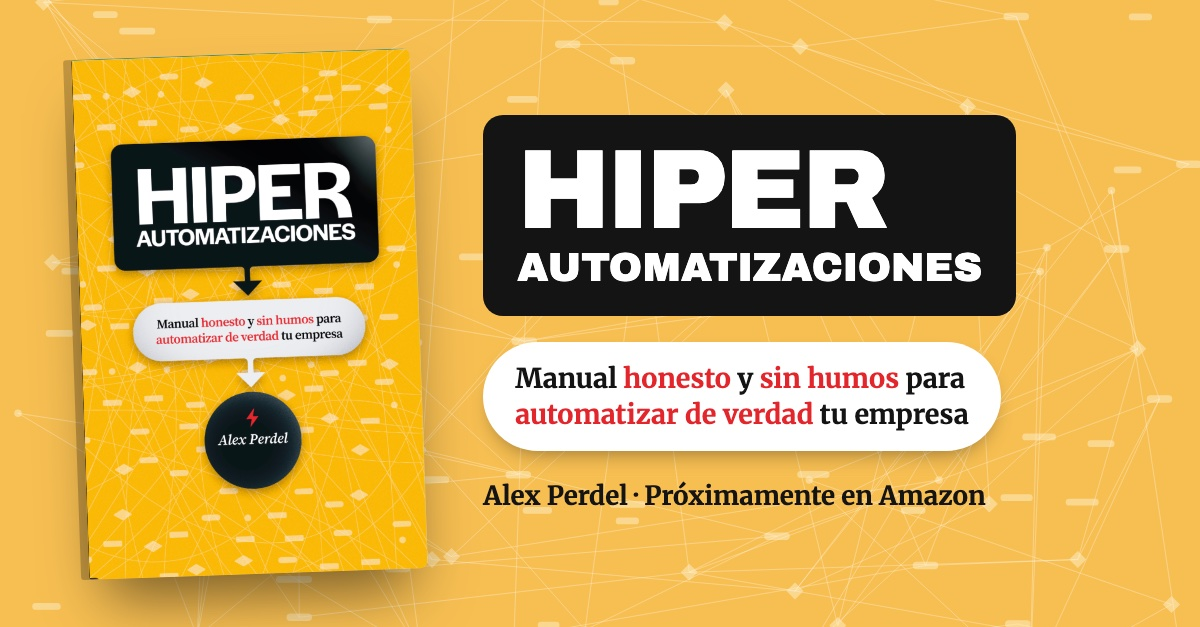
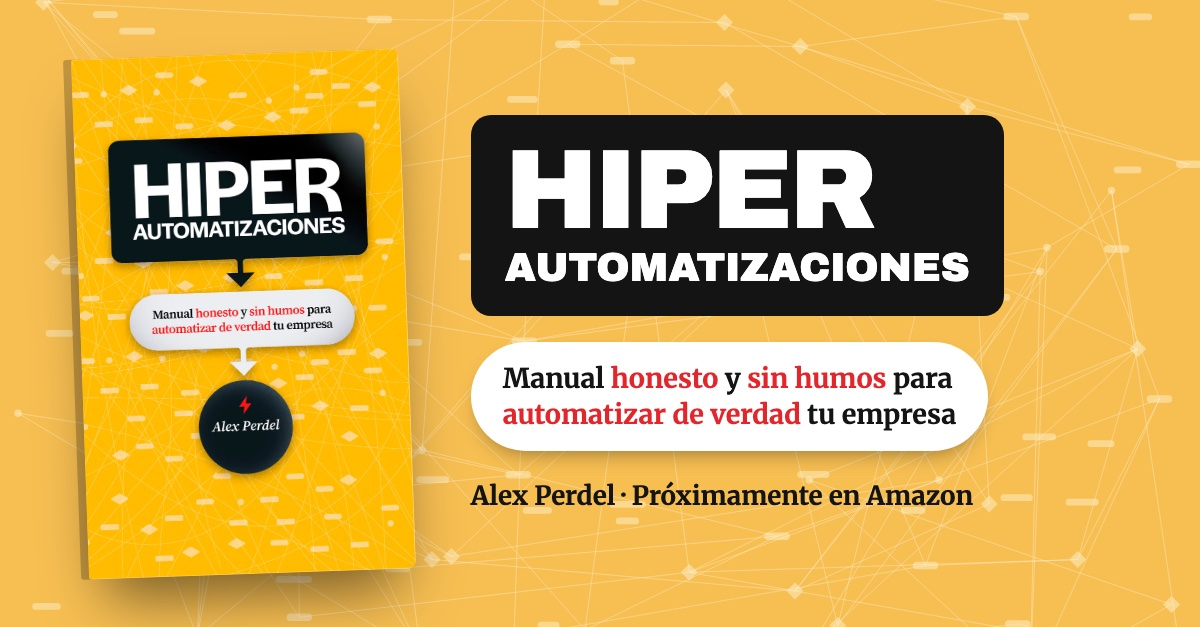
Llega la cubierta de Rafa: portada real, libros apilados en el hero y reel montado al compás de la música
- Portada recortada de la cubierta plana de Rafa, en JPG de 800 px (el PNG
  pesaba varios MB). Todas las referencias, el sitemap, el JSON-LD y los 301
  de la demo pasan a .jpg.
- El hero de la landing usa los libros apilados (PNG transparente de Rafa
  convertido a WebP, 150 KB). Mockup de la mano guardado para cuando haga falta.
- Tarjeta de redes regenerada con la portada buena.
- Reel: arranca en el puente suave de la pista con los libros flotando y el
  título golpea en el drop (4,6 s); cada escena cae en un tiempo fuerte a
  130,4 BPM. render.js admite --desde para elegir el punto de la pista.

Changed region(s): [[0.0617, 0.0606, 0.8633, 0.9394], [0.4008, 0.4848, 0.4317, 0.5152]]

diff --git a/tools/reel-libro/reel.html b/tools/reel-libro/reel.html
@@ -77,12 +77,15 @@
           box-shadow: 0 30px 60px -26px rgba(0,0,0,.6); }
   #rayo svg { width: 46px; height: 58px; }
   #rayo .serif { font-style: italic; font-weight: 900; font-size: 38px; margin-top: 10px; }
+  #c-libros { display: block; width: 1040px; height: 780px; margin: -150px auto -170px; position: relative; left: 50%; transform-origin: 50% 60%; filter: drop-shadow(0 30px 40px rgba(0,0,0,.22)); }
   #cierre .caja { margin-top: 56px; padding: 40px 30px 46px; }
   #cierre .caja.palo { font-size: 96px; letter-spacing: -2px; }
   #cierre .pildora { margin: 34px auto 0; width: 900px; padding: 28px 40px; font-size: 46px; }
   #url { margin-top: 40px; font-family: 'Archivo'; font-weight: 900; font-size: 44px; color: var(--tinta); }
 
   .w { display: inline-block; }
+  #i-libros { display: block; width: 1120px; height: 840px; filter: drop-shadow(0 34px 44px rgba(0,0,0,.22)); }
+  #flash { position: absolute; inset: 0; background: #fff; opacity: 0; pointer-events: none; }
   #progreso { position: absolute; left: 0; bottom: 0; height: 12px; background: var(--tinta); }
 </style>
 </head>
@@ -92,6 +95,7 @@
   <div id="velo"></div>
 
   <div id="escenario">
+    <div class="nodo" id="n-intro"><img id="i-libros" src="../../assets/img/libro/mockup-libros-apilados.webp" alt=""></div>
     <div class="nodo" id="n-titulo"><div id="titulo" class="caja palo"><span class="g" id="t-g">Hiper</span><span class="p" id="t-p">automatizaciones</span></div></div>
     <div class="flecha" id="f1"><i></i><b></b></div>
     <div class="nodo" id="n-sub"><div id="subtitulo" class="pildora serif">Manual <span class="rojo">honesto</span> y <span class="rojo">sin humos</span><br>para <span class="rojo">automatizar de verdad</span> tu empresa</div></div>
@@ -113,18 +117,22 @@
 
     <div class="flecha" id="f6"><i></i><b></b></div>
     <div class="nodo" id="n-cierre"><div id="cierre">
-      <div id="rayo"><svg viewBox="0 0 32 32"><path d="M18 2L6 18H14L12 30L24 14H16L18 2Z" fill="#E3262B"/></svg><span class="serif">Alex Perdel</span></div>
+      <img id="c-libros" src="../../assets/img/libro/mockup-libros-apilados.webp" alt="">
       <div class="caja palo" id="c-caja"><span class="w">Sale a finales</span><br><span class="w">de 2026</span></div>
       <div class="pildora serif" id="c-pild">Apúntate y te aviso el día que salga</div>
       <p id="url">alexperdel.com/hiperautomatizaciones</p>
     </div></div>
   </div>
 
+  <div id="flash"></div>
   <div id="progreso"></div>
 </div>
 
 <script>
-const DUR = 28;
+// Montado sobre «sports rock» a 130,4 BPM: un pulso = 0,46 s, un compás = 1,84 s.
+// El vídeo arranca en el puente suave de la pista (63,39 s) y el drop (67,99 s)
+// cae en el segundo 4,6 del vídeo. render.js: --musica pista.mp3 --desde 63.39
+const DUR = 29.44;
 window.DUR = DUR;
 const H = +(new URLSearchParams(location.search).get('h') || 1350);
 const W = 1080;
@@ -141,9 +149,9 @@ const lerp = (a, b, x) => a + (b - a) * x;
 
 // ---------- escenario: posiciones (centro vertical de cada nodo) ----------
 const $ = id => document.getElementById(id);
-const Y = { titulo: 0, sub: 360, r1: 1120, r2: 2000, r3: 2880, libro: 3780, cierre: 4700 };
+const Y = { intro: -1180, titulo: 0, sub: 360, r1: 1120, r2: 2000, r3: 2880, libro: 3780, cierre: 4700 };
 const sitio = (id, y) => { const n = $(id); n.style.top = y + 'px'; n.dataset.y = y; };
-sitio('n-titulo', Y.titulo); sitio('n-sub', Y.sub); sitio('n-r1', Y.r1); sitio('n-r2', Y.r2);
+sitio('n-intro', Y.intro); sitio('n-titulo', Y.titulo); sitio('n-sub', Y.sub); sitio('n-r1', Y.r1); sitio('n-r2', Y.r2);
 sitio('n-r3', Y.r3); sitio('n-libro', Y.libro); sitio('n-cierre', Y.cierre);
 // Las flechas unen el borde de abajo de un nodo con el de arriba del siguiente
 const borde = (id, lado) => { const n = $(id); const h = n.offsetHeight; return +n.dataset.y + (lado === 'abajo' ? h / 2 : -h / 2); };
@@ -186,31 +194,33 @@ const listo = fetch('../../assets/img/libro/trama-flujos.svg').then(r => r.text(
   });
 });
 
-// ---------- guion: cuándo llega la cámara a cada nodo ----------
-// Versión rápida (28 s): cambios de plano de 0,45 s con rebote y un zoom de
-// impacto al llegar. Todo cuelga de T: moviendo un número se mueve la escena.
-const T = { titulo: .3, sub: 2.6, r1: 5.4, r2: 8.9, r3: 12.4, libro: 15.9, cierre: 21.2 };
+// ---------- guion al compás ----------
+const PULSO = 0.46, COMPAS = 1.84, D = 4.6;          // D = el drop
+const T = { titulo: D, sub: D + COMPAS, r1: D + 2 * COMPAS, r2: D + 4 * COMPAS, r3: D + 6 * COMPAS,
+            libro: D + 8 * COMPAS, cierre: D + 10 * COMPAS };
+// [cuándo empieza a moverse, a dónde mira, cuánto tarda]: llega justo en el tiempo fuerte
 const PLANOS = [
-  [0, (Y.titulo + Y.sub) / 2 - 40],
-  [T.r1 - .45, Y.r1], [T.r2 - .45, Y.r2], [T.r3 - .45, Y.r3], [T.libro - .45, Y.libro], [T.cierre - .45, Y.cierre],
+  [0, Y.intro],
+  [D - .16, (Y.titulo + Y.sub) / 2 - 40, .16],          // corte seco en el drop
+  [T.r1 - .42, Y.r1, .42], [T.r2 - .42, Y.r2, .42], [T.r3 - .42, Y.r3, .42],
+  [T.libro - .42, Y.libro, .42], [T.cierre - .42, Y.cierre, .42],
 ];
-const MOVER = .45;
 const rebote = x => { const c = 1.25; return 1 + (c + 1) * Math.pow(x - 1, 3) + c * Math.pow(x - 1, 2); };
 function camara(t) {
   let y = PLANOS[0][1];
-  for (let i = 1; i < PLANOS.length; i++) y = lerp(y, PLANOS[i][1], rebote(prog(t, PLANOS[i][0], MOVER)));
+  for (let i = 1; i < PLANOS.length; i++) y = lerp(y, PLANOS[i][1], (i === 1 ? easeOut : rebote)(prog(t, PLANOS[i][0], PLANOS[i][2])));
   return y;
 }
-// Zoom de impacto y sacudida corta al aterrizar en cada plano
+// Zoom lento durante el puente, zoom de impacto y sacudida en cada golpe
 function impacto(t) {
-  let z = 0, sx = 0, sy = 0;
-  for (const [ta] of PLANOS.slice(1)) {
-    const x = prog(t, ta + MOVER * .8, .35);
-    if (x > 0 && x < 1) { z += .07 * (1 - easeOut(x)); }
+  let z = t < D ? .06 * easeInOut(prog(t, .3, D - .3)) : 0, sx = 0, sy = 0;
+  for (const [ta, , d] of PLANOS.slice(1)) {
+    const x = prog(t, ta + d, .35);
+    if (x > 0 && x < 1) z += .08 * (1 - easeOut(x));
   }
-  for (const ta of [T.titulo + .25, T.r1 + .15, T.r2 + .15, T.r3 + .15, T.cierre + .45]) {
-    const x = prog(t, ta, .18);
-    if (x > 0 && x < 1) { const k = (1 - x) * 14; sx += Math.sin(t * 160) * k; sy += Math.cos(t * 190) * k; }
+  for (const ta of [D, T.r1, T.r2, T.r3, T.cierre + PULSO]) {
+    const x = prog(t, ta, .2);
+    if (x > 0 && x < 1) { const k = (1 - x) * 16; sx += Math.sin(t * 160) * k; sy += Math.cos(t * 190) * k; }
   }
   return { z, sx, sy };
 }
@@ -235,19 +245,26 @@ window.render = function (t) {
   $('escenario').style.transform = `translate(${im.sx}px, ${H / 2 - cy + im.sy}px) scale(${1 + im.z})`;
   $('fondo').style.transform = `translate(${Math.sin(t / 3) * 22}px, ${-cy * 0.08 + Math.cos(t / 2.5) * 12}px) scale(${1 + im.z * .5})`;
 
-  // Trama dibujándose (0–1,4 s) y respirando después
-  for (const l of lineasTrama) l.el.style.strokeDashoffset = l.L * (1 - easeOut(prog(t, l.d * .8, .6)));
+  // Trama: se dibuja despacio durante el puente y respira después
+  for (const l of lineasTrama) l.el.style.strokeDashoffset = l.L * (1 - easeOut(prog(t, l.d * 2.4, 1.2)));
   for (const f of formasTrama) {
-    const x = prog(t, .2 + f.d * 1.1, .3);
+    const x = prog(t, .3 + f.d * 2.8, .5);
     f.el.style.transform = `scale(${backOut(x) * (1 + Math.sin(t * 4 + f.d * 20) * .08)})`;
     f.el.style.opacity = x;
   }
 
+  // Arranque: los libros de Rafa aparecen flotando mientras suena el puente
+  const xi = prog(t, .4, 1.4);
+  $('n-intro').style.opacity = clamp(xi * 2);
+  $('n-intro').style.transform = `translate(-50%, -50%) translateY(${lerp(80, 0, easeOut(xi)) + Math.sin(t * 1.8) * 12}px) scale(${lerp(.86, 1, easeOut(xi))}) rotate(${Math.sin(t * 1.3) * 1.5}deg)`;
+  // Destello en el drop
+  $('flash').style.opacity = t >= D ? .8 * (1 - easeOut(prog(t, D, .32))) : 0;
+
   // Título: la caja cae y las dos palabras golpean
   const sT = pop($('n-titulo'), t, T.titulo, .35, 1.4);
   $('n-titulo').style.transform = `translate(-50%, -50%) scale(${sT})`;
-  $('t-g').style.opacity = clamp(prog(t, T.titulo + .2, .12)); $('t-g').style.transform = `scale(${lerp(1.7, 1, backOut(prog(t, T.titulo + .2, .3)))})`;
-  $('t-p').style.opacity = clamp(prog(t, T.titulo + .5, .15)); $('t-p').style.transform = `translateY(${lerp(50, 0, backOut(prog(t, T.titulo + .5, .3)))}px)`;
+  $('t-g').style.opacity = clamp(prog(t, T.titulo, .08)); $('t-g').style.transform = `scale(${lerp(1.7, 1, backOut(prog(t, T.titulo, .3)))})`;
+  $('t-p').style.opacity = clamp(prog(t, T.titulo + PULSO, .12)); $('t-p').style.transform = `translateY(${lerp(50, 0, backOut(prog(t, T.titulo + PULSO, .3)))}px)`;
 
   // Flechas: se disparan justo antes de su nodo
   const flecha = (f, a) => {
@@ -259,7 +276,7 @@ window.render = function (t) {
   // Subtítulo: entra la píldora y se subrayan las palabras rojas
   $('n-sub').style.transform = `translate(-50%, -50%) scale(${pop($('n-sub'), t, T.sub)})`;
   [...document.querySelectorAll('#subtitulo .rojo')].forEach((r, i) => {
-    r.style.backgroundSize = (100 * easeOut(prog(t, T.sub + .4 + i * .25, .25))) + '% 5px';
+    r.style.backgroundSize = (100 * easeOut(prog(t, T.sub + PULSO * (i + 1), .25))) + '% 5px';
   });
 
   // Las tres razones: número, palabras que golpean y píldora que sube
@@ -269,30 +286,31 @@ window.render = function (t) {
     num.style.opacity = clamp(prog(t, a - .1, .12)); num.style.transform = `translateY(${lerp(-30, 0, easeOut(prog(t, a - .1, .2)))}px)`;
     cajaW.style.opacity = clamp(prog(t, a, .1) * 2);
     cajaW.style.transform = `scale(${lerp(1.3, 1, backOut(prog(t, a, .3)))}) rotate(${lerp(-6, 0, easeOut(prog(t, a, .35)))}deg)`;
-    golpes(cajaW, t, a + .08);
-    pild.style.opacity = clamp(prog(t, a + .45, .2));
-    pild.style.transform = `translateY(${lerp(60, 0, backOut(prog(t, a + .45, .3)))}px)`;
+    golpes(cajaW, t, a + .04, PULSO / 2);
+    pild.style.opacity = clamp(prog(t, a + 2 * PULSO, .2));
+    pild.style.transform = `translateY(${lerp(60, 0, backOut(prog(t, a + 2 * PULSO, .3)))}px)`;
   });
 
   // Libro: aparece y pasa seis páginas al doble de velocidad
   $('n-libro').style.transform = `translate(-50%, -50%) scale(${pop($('n-libro'), t, T.libro, .4, .7)})`;
   paginas.forEach((p, i) => {
-    const x = easeInOut(prog(t, T.libro + .55 + i * .6, .55));
+    const x = easeInOut(prog(t, T.libro + PULSO * (i + 1), .42));
     p.style.transform = `rotateY(${-180 * x}deg)`;
     p.style.zIndex = x > .5 ? 100 + i : 100 - i;
   });
 
   // Cierre
   $('n-cierre').style.transform = 'translate(-50%, -50%)'; $('n-cierre').style.opacity = 1;
-  const rayo = $('rayo');
-  rayo.style.opacity = clamp(prog(t, T.cierre, .12));
-  rayo.style.transform = `scale(${lerp(.2, 1, backOut(prog(t, T.cierre, .35)))}) rotate(${lerp(-120, 0, easeOut(prog(t, T.cierre, .4)))}deg)`;
-  $('c-caja').style.opacity = clamp(prog(t, T.cierre + .35, .1));
-  $('c-caja').style.transform = `scale(${lerp(1.3, 1, backOut(prog(t, T.cierre + .35, .3)))})`;
-  golpes($('c-caja'), t, T.cierre + .4, .15);
-  $('c-pild').style.opacity = clamp(prog(t, T.cierre + .9, .2)); $('c-pild').style.transform = `translateY(${lerp(50, 0, backOut(prog(t, T.cierre + .9, .3)))}px)`;
-  $('url').style.opacity = clamp(prog(t, T.cierre + 1.3, .2));
-  $('url').style.transform = `scale(${1 + Math.sin(prog(t, T.cierre + 1.6, .5) * Math.PI) * .1 + Math.sin(prog(t, T.cierre + 3.4, .5) * Math.PI) * .06})`;
+  // Los libros de Rafa entran con rebote y se quedan flotando
+  const libros = $('c-libros'), xl = prog(t, T.cierre, .45);
+  libros.style.opacity = clamp(xl * 3);
+  libros.style.transform = `translateX(-50%) translateY(${lerp(160, 0, backOut(xl)) + Math.sin(t * 2.2) * 10 * xl}px) scale(${lerp(.5, 1, backOut(xl))}) rotate(${lerp(-14, 0, easeOut(xl)) + Math.sin(t * 1.6) * 1.2 * xl}deg)`;
+  $('c-caja').style.opacity = clamp(prog(t, T.cierre + PULSO, .1));
+  $('c-caja').style.transform = `scale(${lerp(1.3, 1, backOut(prog(t, T.cierre + PULSO, .3)))})`;
+  golpes($('c-caja'), t, T.cierre + PULSO, PULSO / 2);
+  $('c-pild').style.opacity = clamp(prog(t, T.cierre + 3 * PULSO, .2)); $('c-pild').style.transform = `translateY(${lerp(50, 0, backOut(prog(t, T.cierre + 3 * PULSO, .3)))}px)`;
+  $('url').style.opacity = clamp(prog(t, T.cierre + COMPAS, .2));
+  $('url').style.transform = `scale(${1 + Math.sin(prog(t, T.cierre + COMPAS + PULSO, .46) * Math.PI) * .1 + Math.sin(prog(t, T.cierre + 2 * COMPAS + PULSO, .46) * Math.PI) * .07})`;
 
   $('progreso').style.width = (W * clamp(t / DUR)) + 'px';
 };

diff --git a/tools/reel-libro/render.js b/tools/reel-libro/render.js
@@ -3,7 +3,7 @@
 //   node render.js                     → los dos formatos, 4:5 y 9:16
 //   node render.js --h 1920            → solo uno
 //   node render.js --fotos 2,6,10      → solo fotogramas sueltos (PNG) para revisar
-//   node render.js --musica pista.mp3  → además, versión con música (fundidos de 1 y 2 s)
+//   node render.js --musica pista.mp3 --desde 63.39  → además, versión con música desde ese segundo
 //
 // Salida en ./salida/ (no se versiona).
 
@@ -22,6 +22,7 @@ const arg = (n, def) => { const i = process.argv.indexOf('--' + n); return i > 0
 const alturas = arg('h') ? [+arg('h')] : [1350, 1920];
 const fotos = arg('fotos') ? arg('fotos').split(',').map(Number) : null;
 const musica = arg('musica');
+const desde = +(arg('desde') || 0);      // segundo de la pista en el que arranca el vídeo
 const SALIDA = path.join(__dirname, 'salida');
 fs.mkdirSync(SALIDA, { recursive: true });
 
@@ -80,7 +81,7 @@ function servir() {
     if (musica) {
       const conMusica = mp4.replace('.mp4', '-musica.mp4');
       execFileSync(ffmpeg, ['-y', '-loglevel', 'error', '-i', mp4, '-i', musica,
-        '-filter_complex', `[1:a]atrim=0:${DUR},afade=t=in:st=0:d=1,afade=t=out:st=${DUR - 2}:d=2,volume=0.85[a]`,
+        '-filter_complex', `[1:a]atrim=start=${desde}:end=${desde + DUR},asetpts=PTS-STARTPTS,afade=t=in:st=0:d=0.4,afade=t=out:st=${DUR - 1.5}:d=1.5[a]`,
         '-map', '0:v', '-map', '[a]', '-c:v', 'copy', '-c:a', 'aac', '-b:a', '192k', '-shortest', '-movflags', '+faststart', conMusica]);
       console.log(`→ ${conMusica}`);
     }

diff --git a/hiperautomatizaciones/index.html b/hiperautomatizaciones/index.html
@@ -74,7 +74,7 @@
         "name": "Hiperautomatizaciones",
         "alternateName": "Hiperautomatizaciones: Manual honesto y sin humos para automatizar de verdad tu empresa",
         "url": "https://alexperdel.com/hiperautomatizaciones/",
-        "image": "https://alexperdel.com/assets/img/libro/portada-hiperautomatizaciones.png",
+        "image": "https://alexperdel.com/assets/img/libro/portada-hiperautomatizaciones.jpg",
         "inLanguage": "es",
         "genre": [
           "Empresa",
@@ -138,9 +138,9 @@
         },
         "primaryImageOfPage": {
           "@type": "ImageObject",
-          "url": "https://alexperdel.com/assets/img/libro/portada-hiperautomatizaciones.png",
-          "width": 539,
-          "height": 826
+          "url": "https://alexperdel.com/assets/img/libro/portada-hiperautomatizaciones.jpg",
+          "width": 800,
+          "height": 1273
         },
         "breadcrumb": {
           "@type": "BreadcrumbList",
@@ -280,9 +280,9 @@
         </div>
 
         <div class="lp-cubierta">
-          <img src="../assets/img/libro/portada-hiperautomatizaciones.png"
-               alt="Portada del libro Hiperautomatizaciones, de Alex Perdel"
-               width="539" height="826" fetchpriority="high" decoding="async">
+          <img src="../assets/img/libro/mockup-libros-apilados.webp"
+               alt="Dos ejemplares de Hiperautomatizaciones, de Alex Perdel, en tapa blanda"
+               width="1600" height="1200" fetchpriority="high" decoding="async">
         </div>
       </div>
     </section>

diff --git a/css/libro-landing.css b/css/libro-landing.css
@@ -274,15 +274,14 @@ html { scroll-behavior: smooth; }
   justify-content: center;
 }
 .lp-cubierta img {
-  width: 100%;
-  max-width: 400px;
+  width: 118%;
+  max-width: 680px;
   height: auto;
-  border-radius: 3px 8px 8px 3px;
-  box-shadow: -8px 0 0 0 rgba(0, 0, 0, 0.22), 0 40px 70px -20px rgba(0, 0, 0, 0.55);
-  transform: rotate(2.5deg);
+  margin-right: -9%;
+  filter: drop-shadow(0 30px 40px rgba(0, 0, 0, 0.18));
   transition: transform var(--transition-base);
 }
-.lp-cubierta img:hover { transform: rotate(0deg) translateY(-6px); }
+.lp-cubierta img:hover { transform: translateY(-6px) rotate(-1deg); }
 
 /* --------------------------------------------------------------------------
    2 · LA CONTRA: el recuadro negro con el titular en rojo
@@ -780,7 +779,7 @@ html { scroll-behavior: smooth; }
 @media (max-width: 968px) {
   .lp-hero__inner { grid-template-columns: 1fr; gap: var(--space-12); }
   .lp-hero__lockup { margin: 0 auto; }
-  .lp-cubierta img { max-width: 280px; }
+  .lp-cubierta img { width: 100%; max-width: 460px; margin-right: 0; }
   .lp-razones { grid-template-columns: 1fr; }
   .lp-flujo { grid-template-columns: 1fr; }
   .lp-flujo > .lp-flecha { transform: none; }

diff --git a/index.html b/index.html
@@ -113,7 +113,7 @@
       "@id": "https://alexperdel.com/hiperautomatizaciones/#libro",
       "name": "Hiperautomatizaciones",
       "url": "https://alexperdel.com/hiperautomatizaciones/",
-      "image": "https://alexperdel.com/assets/img/libro/portada-hiperautomatizaciones.png",
+      "image": "https://alexperdel.com/assets/img/libro/portada-hiperautomatizaciones.jpg",
       "inLanguage": "es",
       "author": { "@id": "https://alexperdel.com/#alexperdel" }
     }
@@ -193,8 +193,8 @@
     <section class="book-band">
       <div class="container book-band__inner">
         <a href="hiperautomatizaciones/" class="book-band__cover" aria-label="Hiperautomatizaciones, el libro">
-          <img src="assets/img/libro/portada-hiperautomatizaciones.png"
-               alt="Portada del libro Hiperautomatizaciones, de Alex Perdel" width="539" height="826" loading="lazy" decoding="async">
+          <img src="assets/img/libro/portada-hiperautomatizaciones.jpg"
+               alt="Portada del libro Hiperautomatizaciones, de Alex Perdel" width="800" height="1273" loading="lazy" decoding="async">
         </a>
 
         <div class="book-band__text">

diff --git a/tools/og-libro.html b/tools/og-libro.html
@@ -25,7 +25,7 @@
   .autor { margin-top: 28px; font-family: 'Merriweather', serif; font-size: 26px; font-weight: 700; }
 </style></head>
 <body>
-  <img src="../assets/img/libro/portada-hiperautomatizaciones.png" alt="">
+  <img src="../assets/img/libro/portada-hiperautomatizaciones.jpg" alt="">
   <div>
     <div class="caja"><span class="g">Hiper</span><span class="p">automatizaciones</span></div><br>
     <div class="sub">Manual <em>honesto</em> y <em>sin humos</em> para<br><em>automatizar de verdad</em> tu empresa</div>

diff --git a/docs/ESTADO.md b/docs/ESTADO.md
@@ -419,9 +419,11 @@ en el grupo.
   301 cualquier `index.html` que quede. Search Console decía que la landing
   no tenía **ninguna página de referencia**: los enlaces de la home iban a la
   otra URL.
-- **Portada**: nombre nuevo (`portada-hiperautomatizaciones.png`) y 301 desde
+- **Portada**: nombre nuevo (`portada-hiperautomatizaciones.jpg`) y 301 desde
   las dos demo. No se reutilizó el nombre porque las imágenes salen con
-  `max-age` de un año: quien ya la vio seguiría viendo la demo.
+  `max-age` de un año: quien ya la vio seguiría viendo la demo. Desde el 3 de
+  octubre la portada es la de Rafa, en JPG (`portada-hiperautomatizaciones.jpg`):
+  el PNG pesaba varios MB para una imagen fotográfica.
 - **Contenido para «hiperautomatización» en singular**, que es lo que la gente
   busca: sección «¿Qué es la hiperautomatización?» (resumen del capítulo 1, con
   los cinco tipos) y cinco preguntas frecuentes.
@@ -459,7 +461,8 @@ proyectos/index.html  proyectos/copilot-interno.html  proyectos/crecer-en-ingles
 proyectos/docencia-ia.html  proyectos/gestion-proyectos-seo.html
 proyectos/perito-guai.html  proyectos/voicebot-ia.html
 css/libro.css  css/libro-landing.css  css/footer.css
-assets/img/libro/portada-hiperautomatizaciones.png   ← el PNG BUENO de Rafa
+assets/img/libro/portada-hiperautomatizaciones.jpg   ← portada de Rafa (recortada de la cubierta plana)
+assets/img/libro/mockup-libros-apilados.webp        ← hero de la landing
 assets/img/libro/trama-flujos.svg
 assets/img/alex-perdel-retrato.jpg
 assets/img/libro/og-hiperautomatizaciones.jpg   ← regenerar con tools/og-libro.sh tras meter el PNG
@@ -468,9 +471,6 @@ assets/img/libro/og-hiperautomatizaciones.jpg   ← regenerar con tools/og-libro
 **Borrar del servidor:** `assets/img/libro/portada-hiperautomatizaciones-demo.png`
 y `…-demo-sm.png` (el 301 ya responde por ellas).
 
-⚠ **No subir la portada hasta tener el PNG definitivo.** Con caché de un año,
-si sube la captura provisional y luego se cambia con el mismo nombre, los que
-ya la hayan visto seguirán viendo la captura.
 
 ### Después de subir
 
